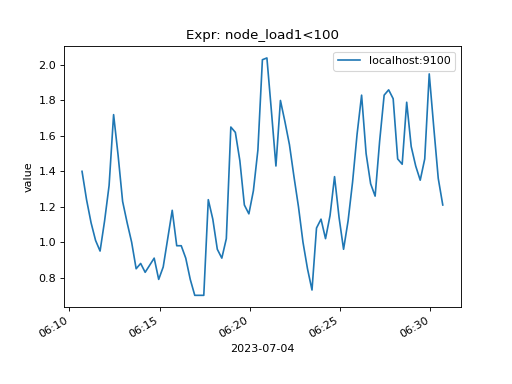
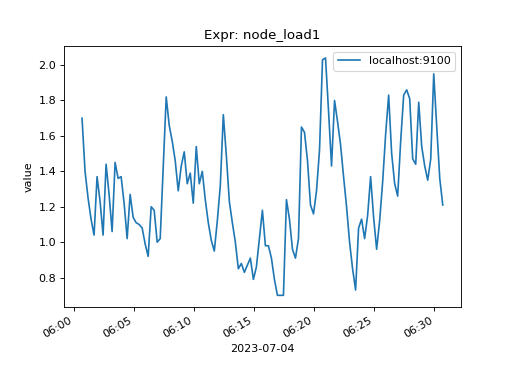
regenerate_quary_for_instance

diff --git a/main.py b/main.py
@@ -1,4 +1,4 @@
-from flask import Flask, request, jsonify
+from flask import Flask, request, jsonify, abort
 import requests
 import matplotlib.pyplot as plt
 import matplotlib.dates as mdates
@@ -49,6 +49,25 @@ def save_file_s3(local_file_path, filename):
     # 上传文件到 S3
     s3.upload_file(local_file_path, bucket_name, s3_object_key)
 
+@time_es
+def regenerate_quary_for_instance(alert_data):
+    generator_url = alert_data["alerts"][0]["generatorURL"]
+    query_expr = re.search(r"g0\.expr=(.*?)&", generator_url).group(1)
+    import urllib.parse 
+    query_expr = urllib.parse.unquote(query_expr).replace('+', ' ')
+    def remove_comparison_strings(s):
+        pattern = r'<\s*\d+|\s*>\s*\d+|<\s*\d+\s*>|\s*>\s*\d+\s*' # 匹配所有大于小于空格数字组合的正则表达式
+        return re.sub(pattern, "", s)  # 使用sub函数替换所有匹配到的组合为“”
+
+
+    logging.info(query_expr) 
+    query_expr_no_comparison = remove_comparison_strings(query_expr)
+    logging.info(query_expr_no_comparison) 
+    
+
+    return query_expr_no_comparison
+
+
 
 @time_es
 def get_graph_data(prometheus_url, query, start_time, end_time, x_header=""):
@@ -61,10 +80,10 @@ def get_graph_data(prometheus_url, query, start_time, end_time, x_header=""):
     #     "step": "15s"
     # }
     headers = {"X-Scope-OrgID": x_header}
-    logging.info(f"hrader: {x_header}, url: {url}")
 
     response = requests.get(url, headers=headers)
-    print(response.url)
+    logging.info(f"hrader: {x_header}, url: {response.url}")
+
     response.raise_for_status()
 
     data = response.json().get('data', {})
@@ -72,7 +91,7 @@ def get_graph_data(prometheus_url, query, start_time, end_time, x_header=""):
 
     if not result:
         return None
-
+    print(result)
     serials = []
     for sl in result:
         ts = [item[0] for item in sl.get('values', [])]
@@ -87,6 +106,7 @@ def get_graph_data(prometheus_url, query, start_time, end_time, x_header=""):
         'title': query,
         'serials': serials
     }
+
 
 @time_es
 def plot_multi_line_svg(title, serials):
@@ -129,7 +149,6 @@ def handle_alert():
     generator_url = manager_notify["alerts"][0]["generatorURL"]
 
     query_expr = re.search(r"g0\.expr=(.*?)&", generator_url).group(1)
-
     graph_data = get_graph_data(
         prometheus_url=prometheus_url,
         query=query_expr,
@@ -144,6 +163,7 @@ def handle_alert():
 
 @app.route('/alert_svg', methods=['POST'])
 def handle_alert_svg():
+    GRAPH_DURATION = 30
     manager_notify = request.json
     generator_url = manager_notify["alerts"][0]["generatorURL"]
     status = manager_notify["alerts"][0]["status"]
@@ -152,17 +172,22 @@ def handle_alert_svg():
     # 从generatorURL字段中提取查询表达式和时间戳信息
     query_expr = re.search(r"g0\.expr=(.*?)&", generator_url).group(1)
 
+    # replace comparison strings, quary all serial...
+    query_expr = regenerate_quary_for_instance(manager_notify)
+
     if manager_notify["alerts"][0]["status"] == "reslved":
         start_time = int(datetime.strptime(
-            manager_notify["alerts"][0]["startsAt"], '%Y-%m-%dT%H:%M:%S.%fZ').timestamp()) - (20*60)
+            manager_notify["alerts"][0]["startsAt"], '%Y-%m-%dT%H:%M:%S.%fZ').timestamp()) - (GRAPH_DURATION*60)
         end_time = int(datetime.strptime(
             manager_notify["alerts"][0]["startsAt"], '%Y-%m-%dT%H:%M:%S.%fZ').timestamp())
     else:
         start_time = int(datetime.strptime(
-            manager_notify["alerts"][0]["startsAt"], '%Y-%m-%dT%H:%M:%S.%fZ').timestamp()) - (20*60)
+            manager_notify["alerts"][0]["startsAt"], '%Y-%m-%dT%H:%M:%S.%fZ').timestamp()) - (GRAPH_DURATION*60)
         end_time = int(datetime.strptime(
             manager_notify["alerts"][0]["startsAt"], '%Y-%m-%dT%H:%M:%S.%fZ').timestamp())
 
+    instanceId = list(map(lambda x: x['labels']["instance"], manager_notify["alerts"]))
+    print(instanceId)
     graph_data = get_graph_data(
         prometheus_url=prometheus_url,
         query=query_expr,
@@ -170,6 +195,12 @@ def handle_alert_svg():
         end_time=end_time,
         x_header=get_X_header(ext_url)
     )
+
+    if graph_data == None:
+        logging.warning("graph_data is None, query_expr: {}".format(query_expr))
+        # status = 404
+        abort(404)
+
 
     svg_name = plot_multi_line_svg(graph_data['title'], graph_data['serials'])
     target_name = f"{fingerprint}-{status}.png"
@@ -181,4 +212,5 @@ def handle_alert_svg():
     return target_name
 
 
-app.run(debug=DEBUG, host="0.0.0.0")
+if __name__ == '__main__':
+    app.run(debug=DEBUG, host="0.0.0.0")
